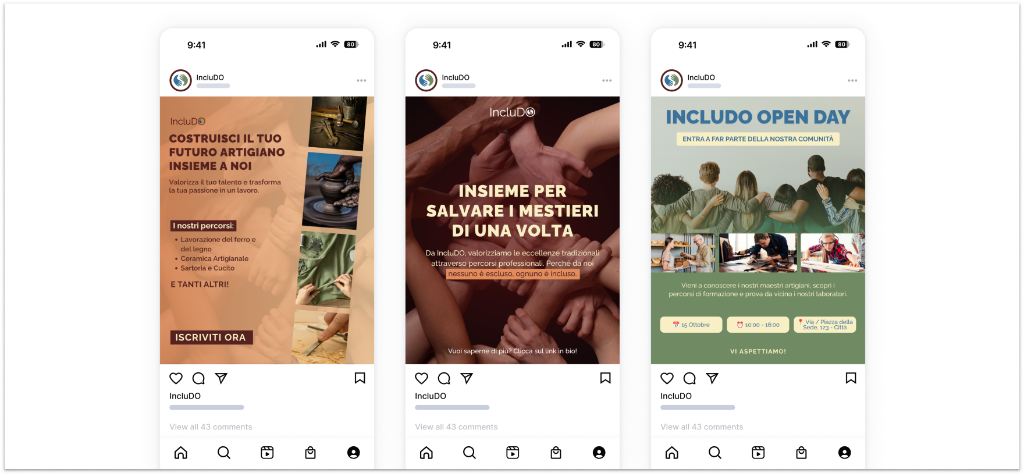
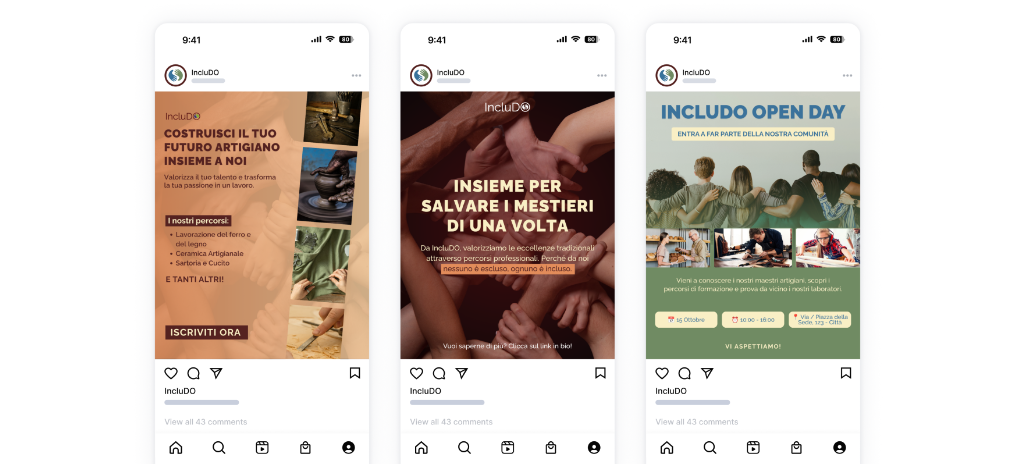
Crop baked-in image borders for social slides, apply border-radius to individual images, and synchronize sidebar overlay responsive formatting

diff --git a/assets/css/includo-brand-identity.css b/assets/css/includo-brand-identity.css
@@ -288,7 +288,7 @@ body {
   margin-bottom: 0;
 }
 
-/* Tipografia Immagine Container (Senza bordo esterno) */
+/* Tipografia Immagine Container (Senza bordo esterno, con corner radius) */
 .tipografia-img-container {
   margin-top: 16px;
   border: none;
@@ -304,6 +304,7 @@ body {
   display: block;
   margin: 0 auto;
   border: none;
+  border-radius: 12px;
   box-shadow: none;
 }
 
@@ -348,6 +349,12 @@ body {
   object-fit: contain;
   object-position: right center;
   display: block;
+  border-radius: 12px;
+}
+
+/* Icon Pack Immagine Container */
+.icon-pack-img-container img {
+  border-radius: 12px;
 }
 
 /* Infografica 3 Card (DELIVERABLE & ASSET DI BRAND) */
@@ -800,4 +807,25 @@ body {
   background-color: #5A189A !important;
   border-color: #5A189A !important;
   transform: translateY(-50%) scale(1.1) !important;
+}
+
+/* Sidebar Navigation Responsive Rules (Identici ad Acumen & IncluDO Copywriting) */
+@media (max-width: 1023px) {
+  .sidebar-nav {
+    display: none !important;
+  }
+}
+@media (min-width: 1024px) and (max-width: 1399px) {
+  .sidebar-nav {
+    left: 20px;
+    width: 190px;
+  }
+  .sidebar-overlay {
+    width: 190px;
+    padding: 10px 6px;
+  }
+  .overlay-link {
+    font-size: 11px;
+    padding: 3px 6px;
+  }
 }

diff --git a/includo-brand-identity.html b/includo-brand-identity.html
@@ -22,7 +22,7 @@
   <link rel="stylesheet" href="assets/css/homepage.css">
   
   <!-- Case Study CSS -->
-  <link rel="stylesheet" href="assets/css/includo-brand-identity.css?v=2.1">
+  <link rel="stylesheet" href="assets/css/includo-brand-identity.css?v=2.2">
 </head>
 
 <body>
